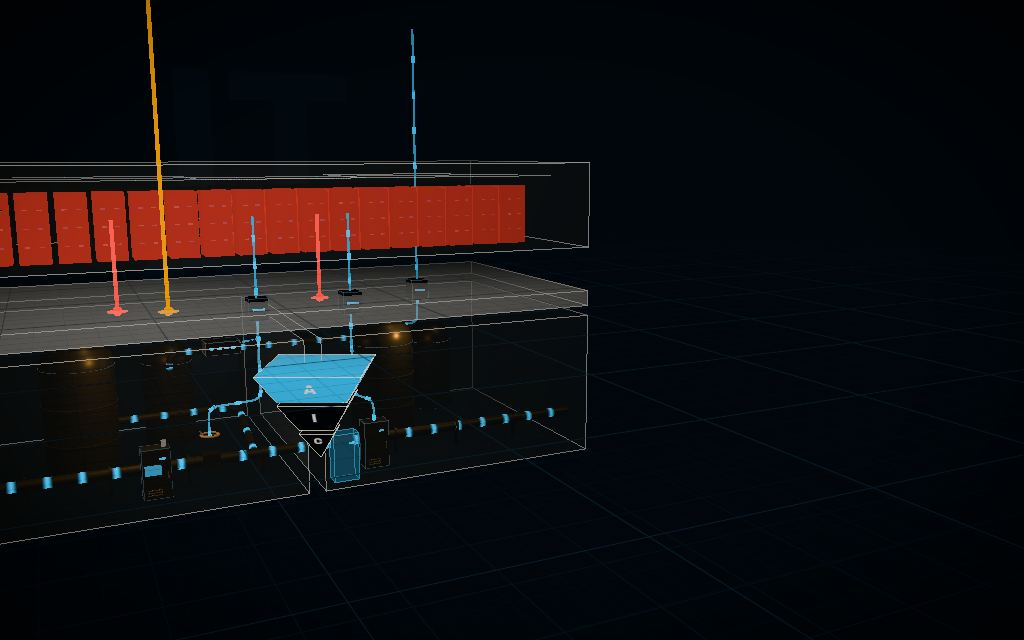
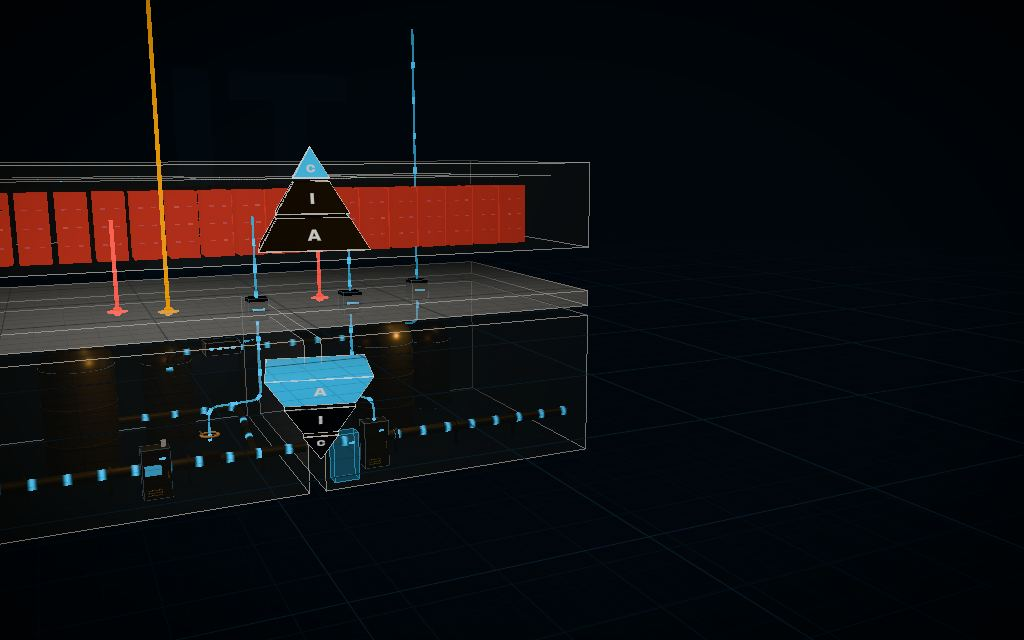
Presentación: el apuro depende del viaje real; pósters del 10 al día
Un toque justo después de llegar a una parada avanza (antes, una ventana de
300 ms lo tomaba como segundo toque y no pasaba nada). Pósters del 10 con
las dos pirámides y presupuesto 3D actualizado en los docs (97 y 80).

Claude-Session: https://claude.ai/code/session_01DJq68oAKi5gqSPBGvk3zMr

diff --git a/src/ui/navigation.ts b/src/ui/navigation.ts
@@ -24,6 +24,8 @@ function stopY(stop: Stop) {
 // (si no, dos ← → seguidos calcularían desde una posición intermedia).
 // `apurado`: el viaje en curso ya es uno rápido (ver stepStop).
 let last = { y: 0, until: 0, apurado: false };
+// Hay un viaje en curso (de → o clic) que todavía no llegó: un toque ahora apura en vez de avanzar.
+let enViaje = false;
 
 // En la presentación cada → es un viaje que deja ver actuar la escena: las animaciones van atadas al scroll,
 // así que su ritmo es el del viaje. Dura según lo que recorre (2,6 s más 1,6 s por pantalla, hasta 7,5 s) y
@@ -67,6 +69,7 @@ const RAPIDO = 0.9; // segundos de un viaje apurado (dos toques seguidos)
 function go(y: number, modo: "salto" | "viaje" | "rapido" = "salto") {
   const html = document.documentElement;
   if (modo === "salto") {
+    enViaje = false;
     last = { y, until: performance.now() + 1300, apurado: false };
     scrollToY(y, 1.2);
     return;
@@ -77,9 +80,12 @@ function go(y: number, modo: "salto" | "viaje" | "rapido" = "salto") {
   last = { y, until: performance.now() + duration * 1000 + 300, apurado: modo === "rapido" };
   // Mientras dura el viaje, <html data-viajando>: los scripts de prueba esperan a que se apague.
   html.dataset.viajando = "true";
+  enViaje = true;
   html.dataset.destino = String(y);
   const llegar = () => {
-    if (last.y === y) delete html.dataset.viajando;
+    if (last.y !== y) return;
+    enViaje = false;
+    delete html.dataset.viajando;
   };
   scrollToY(y, duration, parejo, llegar);
   window.setTimeout(llegar, duration * 1000 + 300); // por si Lenis salta sin animar (reduced motion)
@@ -96,7 +102,7 @@ export function goToStop(id: string) {
 // Dos toques seguidos (flecha o clic) apuran: si llega un → mientras la escena viaja, el viaje termina rápido en
 // la misma parada (no se saltea nada); otro → durante ese viaje rápido pasa a la siguiente, también rápido.
 export function stepStop(dir: 1 | -1) {
-  const viajando = performance.now() < last.until;
+  const viajando = enViaje;
   if (viajando && dir === 1 && !last.apurado) {
     go(last.y, "rapido");
     return;

diff --git a/docs/PROGRESO.md b/docs/PROGRESO.md
@@ -10,7 +10,7 @@ Según el flujo de la skill (sección 3), las fases 1 a 7 están hechas: fuente,
 - **Capítulos 01–10:** HTML con el contenido condensado, figuras y fuentes. **Todos los capítulos con escena prevista la tienen** (01, 02, 03, 05, 07, 09 y 10); el 04, el 06 y el 08 se leen sobre el velo (`dim: 1`), como dice el guion. Las listas del 01, 05, 07 y 09 se encienden al ritmo de su escena.
 - **Modos:** lectura (`L`, con los pósters de las escenas), presentación (`P`, 27 paradas, `?ensayo` con cronómetro, fps y calidad), reduced motion, sin WebGL, calidad fija por URL (`?calidad=baja`, `?calidad=estatica` y `?calidad=alta` para medir) e impresión (PDF con `scripts/pdf.cjs`). Con zoom muy alto (menos de 320 px de alto) pasa solo a lectura.
 - **Pantallas:** escritorio y tableta horizontal con el panel fijo al costado de la escena (si el panel no entra, sube tramo a tramo); celular y cualquier pantalla vertical con el texto primero y la escena después, con la pantalla libre.
-- **Verificación:** `capturas.cjs`, `modos.cjs`, `offline.cjs`, `a11y.cjs` (axe más texto fuera del árbol), `reflow.cjs` (zoom, espaciado de texto, colores forzados), `presupuesto.cjs` (llamadas de dibujo y triángulos) y `npm run lint`. Última corrida (sesión 4): consola limpia, 0 pedidos externos, el recorrido completo sin red, axe sin violaciones en 5 vistas, los 7 casos de reflow bien y el 3D dentro del presupuesto en los dos tiers (91 y 74 llamadas como máximo).
+- **Verificación:** `capturas.cjs`, `modos.cjs`, `offline.cjs`, `a11y.cjs` (axe más texto fuera del árbol), `reflow.cjs` (zoom, espaciado de texto, colores forzados), `presupuesto.cjs` (llamadas de dibujo y triángulos) y `npm run lint`. Última corrida (sesión 4): consola limpia, 0 pedidos externos, el recorrido completo sin red, axe sin violaciones en 5 vistas, los 7 casos de reflow bien y el 3D dentro del presupuesto en los dos tiers (97 y 80 llamadas como máximo).
 
 ## Bitácora
 

diff --git a/docs/ROADMAP.md b/docs/ROADMAP.md
@@ -12,7 +12,7 @@ Estado al cierre de la sesión 3: el sitio está en la fase 8 de 8 del flujo de 
 - [x] Ficha IT/OT con cartel de paletas (split-flap); cada fila de prioridades rueda su contenido (ya no se cruzan los nombres).
 - [x] Respaldo SVG sin WebGL y para reduced motion; tabla de la tesina como contenido real.
 - [x] **Pasada de arte (detalle):** juntas entre servidores en los racks, bridas y soportes en las cañerías, aros y faldones en los tanques, rejillas y manija en los gabinetes (`src/three/scenes/PlantDetails.tsx`). Todo instanciado y en metal o tinta: cinco llamadas de dibujo más.
-- [x] Presupuestos del 3D de la sección 8 de la skill, medidos parada por parada (`scripts/presupuesto.cjs`): 91 llamadas de dibujo como máximo en el tier alto y 74 en el bajo (topes 150 y 80), 45 k triángulos.
+- [x] Presupuestos del 3D de la sección 8 de la skill, medidos parada por parada (`scripts/presupuesto.cjs`): 97 llamadas de dibujo como máximo en el tier alto y 80 en el bajo (topes 150 y 80), 45 k triángulos.
 - [ ] Atmósfera propia de cada estudio (luz, niebla, materiales), cuando Franco elija uno.
 - [ ] Revisar en una compu real de la defensa (GPU integrada): el tier bajo tiene que sostener 30 fps. Si no llega, abrir con `?calidad=baja` (fija el tier bajo desde el principio) o `?calidad=estatica` (sin 3D).
 

diff --git a/docs/DECISIONES.md b/docs/DECISIONES.md
@@ -28,8 +28,8 @@ La skill fija topes por frame para la compu de la defensa (sección 8). `scripts
 
 | Tier | Antes | Después | Tope de la skill |
 |---|---|---|---|
-| Alto (`?calidad=alta`) | 122 llamadas | 91 llamadas · 45 k triángulos | ≤ 150 · ≤ 500 k |
-| Bajo (`?calidad=baja`) | 105 llamadas: el 09 y el 10 se pasaban | 74 llamadas · 45 k triángulos | ≤ 80 · ≤ 200 k |
+| Alto (`?calidad=alta`) | 122 llamadas | 91 llamadas · 45 k triángulos (97 desde que el 10 muestra las dos pirámides) | ≤ 150 · ≤ 500 k |
+| Bajo (`?calidad=baja`) | 105 llamadas: el 09 y el 10 se pasaban | 74 llamadas · 45 k triángulos (80, justo en el tope, con las dos pirámides del 10) | ≤ 80 · ≤ 200 k |
 
 El pico está en el final del 10 (la torre entera a la vista, con la pirámide). Para bajarlo se fusionaron piezas quietas que comparten material y se instanciaron las que se repiten, sin cambiar el aspecto (`src/three/merge.ts`):
 
